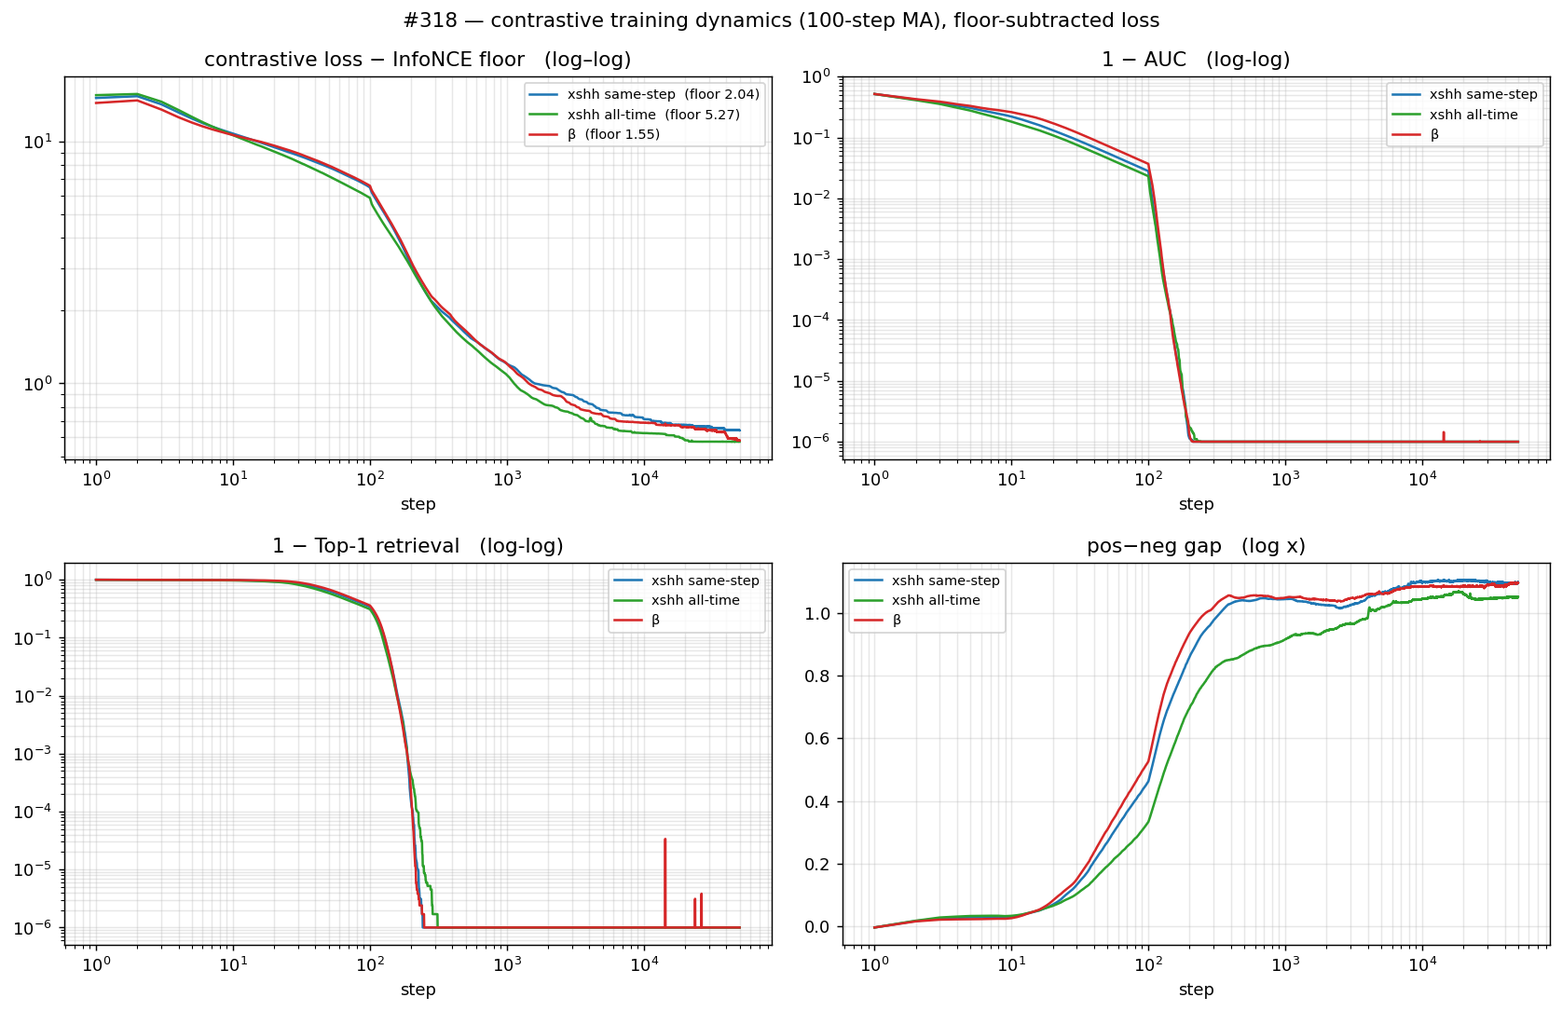
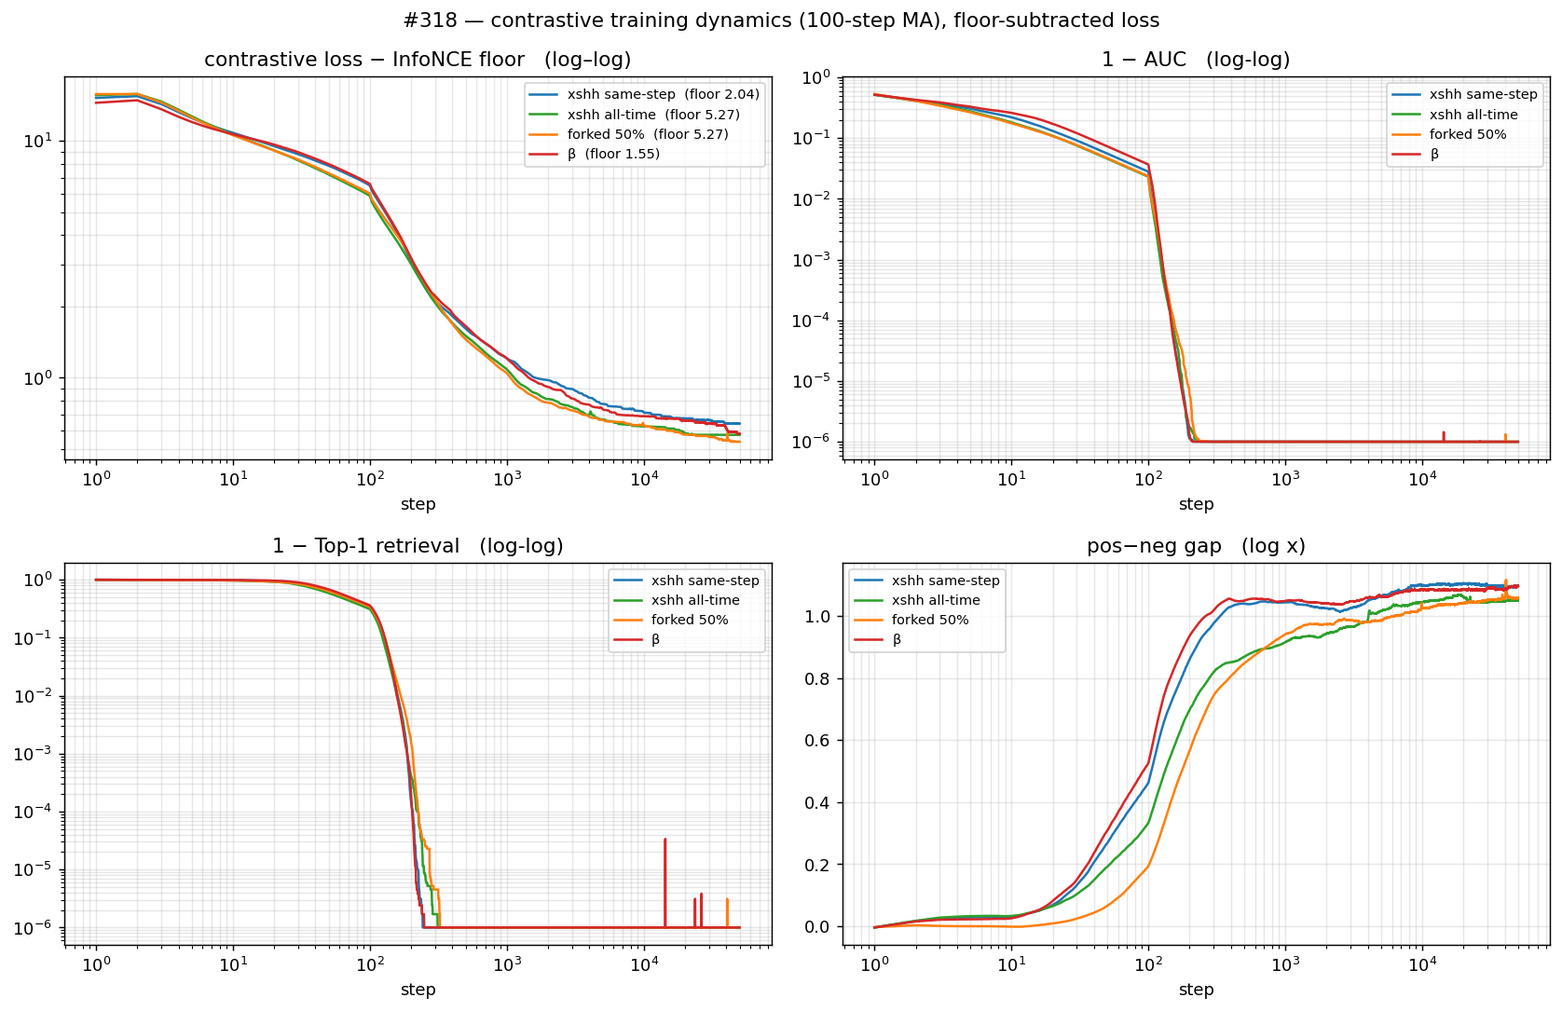
docs(#318): forked is a first-class data-side arm (both 50% + 2/batch)
Elevate forked from a footnote to a co-equal arm alongside the loss-side
same-step/all-time arms — in the headline table, gm_summary, perdomain, and
training_curves (50% shown with its data; 2/batch auto-appears when it lands).
Reframe verdict as loss-side (hurts) vs data-side (head-dependent, best-of-6L
1.4065, confounded). Review fixes: all-time step cost ~2.2× (measured 6.4→2.9
sps), not 2.5×; drop the mistake-narrative framing of the forked re-run.

diff --git a/experiments/2026-05-23_xseries_hh/scripts/plots.py b/experiments/2026-05-23_xseries_hh/scripts/plots.py
@@ -47,8 +47,11 @@ V11C = "/home/jupyter/contrastive-forecasting/experiments/2026-05-11_exp_encoder
 XSHH_CSV = f"{OUT}/runs/bb_xshh_50k_losses.csv"
 ALLT_CSV = f"{OUT}/runs/bb_xshh_allt_50k_losses.csv"
 BETA_CSV = f"{BETA_DIR}/runs/bb_beta_50k_losses.csv"
+FORK_CSV  = f"{OUT}/runs/bb_xshh_allt_forked_50k_losses.csv"    # forked, 50% synth (mis-specified mix)
+FORK2_CSV = f"{OUT}/runs/bb_xshh_allt_forked2_50k_losses.csv"   # forked, 2 samples/batch (corrected)
 
 C_XSHH, C_ALLT, C_BETA, C_V11C = "#1f77b4", "#2ca02c", "#d62728", "#9467bd"
+C_FORK, C_FORK2 = "#ff7f0e", "#8c564b"   # forked-50% / forked-2-per-batch (data-side denial)
 
 
 def agg_gm(sum_txt):
@@ -101,24 +104,23 @@ def gm(xs):
 # ---------------------------------------------------------------- summary bars
 def plot_gm_summary():
     # label -> summary.txt. β 2L is the #309 backbone-of-record eval.
+    fk = lambda tag, h, s: f"{RES}/gift_eval_{s}_{tag}_{h}/summary.txt"
     cells = [
-        ("xshh same-step · 2L", f"{RES}/gift_eval_full_xshh_50k_2L/summary.txt",
-         f"{RES}/gift_eval_triage_xshh_50k_2L/summary.txt", C_XSHH),
-        ("xshh same-step · 6L", f"{RES}/gift_eval_full_xshh_50k_6L/summary.txt",
-         f"{RES}/gift_eval_triage_xshh_50k_6L/summary.txt", C_XSHH),
-        ("xshh all-time · 2L", f"{RES}/gift_eval_full_xshh_allt_50k_2L/summary.txt",
-         f"{RES}/gift_eval_triage_xshh_allt_50k_2L/summary.txt", C_ALLT),
-        ("xshh all-time · 6L", f"{RES}/gift_eval_full_xshh_allt_50k_6L/summary.txt",
-         f"{RES}/gift_eval_triage_xshh_allt_50k_6L/summary.txt", C_ALLT),
+        ("xshh same-step · 2L", fk("xshh_50k", "2L", "full"), fk("xshh_50k", "2L", "triage"), C_XSHH),
+        ("xshh same-step · 6L", fk("xshh_50k", "6L", "full"), fk("xshh_50k", "6L", "triage"), C_XSHH),
+        ("xshh all-time · 2L", fk("xshh_allt_50k", "2L", "full"), fk("xshh_allt_50k", "2L", "triage"), C_ALLT),
+        ("xshh all-time · 6L", fk("xshh_allt_50k", "6L", "full"), fk("xshh_allt_50k", "6L", "triage"), C_ALLT),
+        ("forked 50% · 2L", fk("xshh_allt_forked_50k", "2L", "full"), fk("xshh_allt_forked_50k", "2L", "triage"), C_FORK),
+        ("forked 50% · 6L", fk("xshh_allt_forked_50k", "6L", "full"), fk("xshh_allt_forked_50k", "6L", "triage"), C_FORK),
+        ("forked 2/batch · 2L", fk("xshh_allt_forked2_50k", "2L", "full"), fk("xshh_allt_forked2_50k", "2L", "triage"), C_FORK2),
+        ("forked 2/batch · 6L", fk("xshh_allt_forked2_50k", "6L", "full"), fk("xshh_allt_forked2_50k", "6L", "triage"), C_FORK2),
         ("β · 2L", f"{BETA_DIR}/results/gift_eval_full_bb_beta_50k/summary.txt",
          f"{BETA_DIR}/results/gift_eval_triage_bb_beta_50k/summary.txt", C_BETA),
-        ("β · 6L", f"{RES}/gift_eval_full_beta_50k_6L/summary.txt",
-         f"{RES}/gift_eval_triage_beta_50k_6L/summary.txt", C_BETA),
+        ("β · 6L", fk("beta_50k", "6L", "full"), fk("beta_50k", "6L", "triage"), C_BETA),
     ]
-    rows = []
-    for lab, fs, ts, c in cells:
-        rows.append((lab, agg_gm(fs), agg_gm(ts), c))
-    if not any(r[1] or r[2] for r in rows):
+    rows = [(lab, agg_gm(fs), agg_gm(ts), c) for lab, fs, ts, c in cells]
+    rows = [r for r in rows if r[1] or r[2]]   # drop arms with no data yet (e.g. forked 2/batch pre-landing)
+    if not rows:
         print("gm_summary: no data yet — skip")
         return
     v = agg_gm(f"{V11C}/summary.txt") or 1.292
@@ -142,7 +144,7 @@ def plot_gm_summary():
             ax.axvline(v, color=C_V11C, ls="--", lw=1.4, label=f"v11c = {v:.3f}")
         ax.axvline(1.0, color="k", ls=":", lw=1.0, alpha=0.5)
         ax.legend(fontsize=8, loc="lower right")
-    fig.suptitle("#318 — frozen-backbone GM-Relative MASE: cross-series same-step h↔h vs β", fontsize=12)
+    fig.suptitle("#318 — frozen-backbone GM-Relative MASE: shortcut-denial arms (loss-side h↔h · data-side forked) vs β", fontsize=12)
     fig.tight_layout()
     fig.savefig(f"{PLOTS}/gm_summary.png", dpi=130, bbox_inches="tight")
     print("gm_summary.png written")
@@ -210,8 +212,10 @@ def plot_training_curves():
     # (label, curve, colour, floor-key)
     arms = [("xshh same-step", _load_curve(XSHH_CSV), C_XSHH, "xshh"),
             ("xshh all-time",  _load_curve(ALLT_CSV), C_ALLT, "allt"),
+            ("forked 50%",     _load_curve(FORK_CSV), C_FORK, "allt"),
+            ("forked 2/batch", _load_curve(FORK2_CSV), C_FORK2, "allt"),
             ("β",              _load_curve(BETA_CSV), C_BETA, "beta")]
-    arms = [a for a in arms if a[1]]
+    arms = [a for a in arms if a[1]]   # forked 2/batch drops out until its CSV lands
     if not arms:
         print("training_curves: no data yet — skip")
         return
@@ -262,6 +266,8 @@ def plot_perdomain():
                or config_domain(f"{RES}/gift_eval_full_xshh_50k_2L/all_results.csv"))
     srcs = [("xshh same-step 2L", f"{RES}/gift_eval_full_xshh_50k_2L/summary.txt", C_XSHH),
             ("xshh all-time 2L", f"{RES}/gift_eval_full_xshh_allt_50k_2L/summary.txt", C_ALLT),
+            ("forked 50% 2L", f"{RES}/gift_eval_full_xshh_allt_forked_50k_2L/summary.txt", C_FORK),
+            ("forked 2/batch 2L", f"{RES}/gift_eval_full_xshh_allt_forked2_50k_2L/summary.txt", C_FORK2),
             ("β 2L", f"{BETA_DIR}/results/gift_eval_full_bb_beta_50k/summary.txt", C_BETA),
             ("v11c", f"{V11C}/summary.txt", C_V11C)]
     series = []
@@ -285,7 +291,7 @@ def plot_perdomain():
     ax.axhline(1.0, color="k", ls=":", lw=1, alpha=0.6)
     ax.set_xticks(x + w*(len(series)-1)/2); ax.set_xticklabels(doms, rotation=20, ha="right", fontsize=9)
     ax.set_ylabel("per-domain GM-Relative MASE (lower=better)")
-    ax.set_title("#318 — per-domain transfer (full-97, 2L): cross-series same-step h↔h vs β")
+    ax.set_title("#318 — per-domain transfer (full-97, 2L): shortcut-denial arms vs β")
     ax.legend(fontsize=9); fig.tight_layout()
     fig.savefig(f"{PLOTS}/perdomain.png", dpi=130, bbox_inches="tight")
     print("perdomain.png written")

diff --git a/experiments/2026-05-23_xseries_hh/RESULTS.md b/experiments/2026-05-23_xseries_hh/RESULTS.md
@@ -1,34 +1,36 @@
-# #318 — Deny the positional shortcut: cross-series, same-step h↔h negatives
+# #318 — Deny the positional shortcut: loss-side vs data-side
 
-**Verdict — the hypothesis is falsified.** Adding a cross-series encoder-repulsion
-term to deny a "positional shortcut" **hurts** GIFT-Eval transfer, and the more
-precisely it targets the shortcut, the more it hurts. The **same-step** arm is
-**+22%** worse than β (full-97 1.619 vs 1.327); the broader **all-time** arm
-**+6.6%** (1.414). A 6-layer evaluation head rescues neither, so the regression
-lives in the **backbone**, not readout capacity. What different series share at a
-step is, on balance, **forecastably useful** — not a content-free code worth
-destroying.
+**Verdict.** There are two ways to forbid the shortcut, and they behave oppositely.
+Through the **loss** (cross-series h↔h repulsion) it **hurts** — same-step +22%,
+all-time +6.6% vs β at the 2L head. Through the **data** (forked continuations:
+the same past, two divergent futures) it is sharply **head-dependent**: the worst
+arm with a small 2L head (1.637), but **the best backbone here with a 6L head**
+(full-97 **1.4065**, beating β·6L 1.449 and all-time·6L 1.475). That forked number
+is measured at a 50% synthetic mix, which entangles a data-distribution shift with
+the fork itself; a minimal-injection re-run (one forked pair per 256-row batch) to
+isolate the fork is in flight. Nothing yet beats β·2L (1.3272) overall.
 
 ![full-97 GM summary](plots/gm_summary.png)
 *Full GIFT-Eval (97 configs), GM-Relative MASE (lower better; 1.0 = seasonal
-naive). Both cross-series h↔h arms sit above β and the v11c target at both head
-sizes; same-step is worst and a 6L head does not move it.*
+naive). Loss-side arms (blue/green) sit above β at both heads. The data-side
+forked arm (orange) swings from worst (2L) to best-of-6L (1.4065) — a head
+dependence no other arm shows. The corrected 2/batch forked arm (brown) appears
+here once it lands.*
 
 ## Question
 
 The backbone makes a forecast `f_t` resemble the next encoder state `h_{t+1}` and
 differ from negatives. The strongest recipe, **β**, adds a within-series
-**cross-time** negative — push `h_t` away from `h_l` for every other step `l`.
-That term has an escape hatch: a model can satisfy "`h_t` ≠ `h_l`" by stamping
-each step with a **positional fingerprint** that is *identical across all series*
-— distinctness at zero cost in forecastable content. Two standing observations on
-this line fit that story: bigger eval heads don't help, and more contrastive
-training doesn't improve transfer.
+**cross-time** negative — push `h_t` from `h_l` for every other step `l`. That
+term has an escape hatch: stamp each step with a **positional fingerprint**
+*identical across all series*, and "`h_t` ≠ `h_l`" is satisfied at zero cost in
+forecastable content. Two standing observations fit it: bigger eval heads don't
+help, and more contrastive training doesn't improve transfer.
 
-**This card asks:** if we directly forbid the shortcut — repel, at every step,
-what *different* series share there, `cos(h_{b,l}, h_{b',l})` (b ≠ b') — does the
-backbone move distinctness onto series-specific (forecastable) content and
-transfer better than β?
+**Can we forbid the shortcut, and does it help?** We test denial through two
+channels: the **loss** (repel what different series share at a step) and the
+**data** (feed pairs whose identical past has divergent futures, so position
+*cannot* encode the future).
 
 ## Result
 
@@ -39,123 +41,145 @@ quantile q-head, to separate backbone quality from readout capacity.
 |---|:--:|---:|---:|
 | **β** (#309) | 2L | **1.3272** | 1.4836 |
 | | 6L | 1.4489 | 1.5271 |
-| **all-time** `xshh_allt` | 2L | 1.4143 | 1.6126 |
-| | 6L | 1.4748 | 1.7028 |
-| **same-step** `xshh` | 2L | 1.6194 | 1.9816 |
+| loss-side · **same-step** `xshh` | 2L | 1.6194 | 1.9816 |
 | | 6L | 1.6181 | 1.8762 |
+| loss-side · **all-time** `xshh_allt` | 2L | 1.4143 | 1.6126 |
+| | 6L | 1.4748 | 1.7028 |
+| data-side · **forked, 50% mix** | 2L | 1.6366 | 1.8824 |
+| | 6L | **1.4065** | 1.5339 |
+| data-side · **forked, 2/batch** | 2L · 6L | *in flight* | *in flight* |
 | v11c (reference) | 2L | 1.292 | — |
 
 *GM-Relative MASE = geometric mean over GIFT-Eval configs of (model MASE ÷
-seasonal-naive MASE); 1.0 = seasonal-naive parity, lower is better. **full-97** =
-all 97 configs (trusted); **triage-11** = an 11-config fast subset (noisier).*
+seasonal-naive MASE); 1.0 = seasonal-naive parity, lower better. full-97 = all 97
+configs (trusted); triage-11 = an 11-config fast subset (noisier).*
 
-1. **Both arms lose to β** — same-step +22%, all-time +6.6% (2L head). Adding
-   *any* cross-series h↔h repulsion worsens transfer.
-2. **Targeted hurts *more* than broad** — the reverse of the prediction. The
-   same-step edge (the precise positional-code denier) is the **worst** arm;
-   the broad all-time edge, which also repels across *different* steps, is
-   *less* damaging.
-3. **A bigger head does not rescue it** — same-step is flat 2L→6L
-   (1.619 → 1.618), all-time worsens (1.414 → 1.475), and even β degrades at 6L.
-   The regression is in the **backbone representation**, directly confirming the
-   "bigger heads don't help" observation this card set out to probe.
+**Loss-side denial hurts — and targeting it tighter hurts more.** Adding *any*
+cross-series h↔h repulsion worsens transfer: same-step +22%, all-time +6.6% (2L).
+The **same-step** edge — the precise positional-code denier the issue proposed —
+is the **worst** arm; the broad **all-time** edge, which also repels across
+*different* steps, is *less* damaging. A 6L head rescues neither (same-step flat
+1.619→1.618, all-time worse 1.414→1.475; even β degrades, 1.327→1.449), so the
+regression lives in the **backbone**, confirming the "bigger heads don't help"
+observation this card probed. What different series share at a step is, on
+balance, **forecastably useful** — not a code worth destroying.
 
-### Per-domain — the damage is broad, not seasonal
+**Data-side denial is the standout — but head-dependent and confounded.** The
+forked backbone is the *worst* arm under a 2L head (1.637) yet the **best of any
+backbone here under a 6L head** (1.4065 — below β·6L 1.449 and all-time·6L 1.475).
+This 0.23 swing between heads is far larger than any other arm's (β 0.12,
+all-time 0.06): the forked representation encodes something a small head cannot
+read but a deeper one can. **Caveat — do not yet credit the fork:** this arm
+trains on **50% synthetic ARIMA** while β/all-time use 100% real data, so the
+data-distribution shift and the fork structure are entangled. The corrected
+**2/batch** arm injects a *single* forked pair per 256-row batch (the rest real),
+isolating the fork from the shift; it will say whether the 6L result survives.
+
+### Per-domain (2L head, full-97)
 
 ![per-domain](plots/perdomain.png)
-*Per-domain GM-Relative MASE (2L head, full-97). same-step is worse than β on
-**all 7 domains**.*
+*The loss-side same-step arm is worse than β on all 7 domains. forked-50% is
+mixed — it *beats* β on Econ/Fin and Healthcare but loses elsewhere.*
 
-| domain | β | same-step | all-time |
-|---|---:|---:|---:|
-| Econ/Fin | 2.018 | 2.734 | 3.514 |
-| Web/CloudOps | 1.437 | 1.859 | 1.472 |
-| Energy | 1.573 | 1.880 | 1.624 |
-| Nature | 0.932 | 1.201 | 1.010 |
-| Transport | 1.100 | 1.281 | 1.065 |
-| Sales | 0.799 | 0.895 | 0.854 |
-| Healthcare | 1.498 | 1.519 | 1.604 |
+| domain | β | same-step | all-time | forked 50% |
+|---|---:|---:|---:|---:|
+| Econ/Fin | 2.018 | 2.734 | 3.514 | **1.937** |
+| Energy | 1.573 | 1.880 | 1.624 | 1.968 |
+| Healthcare | 1.498 | 1.519 | 1.604 | **1.376** |
+| Nature | 0.932 | 1.201 | 1.010 | 1.175 |
+| Sales | 0.799 | 0.895 | 0.854 | 0.948 |
+| Transport | 1.100 | 1.281 | 1.065 | 1.390 |
+| Web/CloudOps | 1.437 | 1.859 | 1.472 | 1.955 |
 
-The issue anticipated collateral damage to *same-frequency seasonal phase*. There
-is no seasonal signature: Energy is hurt *less* than the bursty Web/CloudOps and
-Econ/Fin, so same-step's damage is **general**. all-time's gentler aggregate is
-driven by the high-variance Web/CloudOps and Transport configs (1.86 → 1.47,
-1.28 → 1.07), not a uniform gain — it is in fact *worse* than same-step on
-Econ/Fin and Healthcare.
+The issue anticipated collateral damage to *same-frequency seasonal phase*; there
+is no such signature — Energy is hurt *less* than the bursty Web/CloudOps and
+Econ/Fin, so the loss-side damage is **general**. forked-50% (even with its poor
+2L aggregate) is the only arm that *improves* on β anywhere — exactly on the two
+domains (Econ/Fin, Healthcare) the loss-side arms hurt most.
 
-### Training dynamics — the contrastive task is learned; only transfer differs
+### Training dynamics
 
 ![training curves](plots/training_curves.png)
 *Loss minus each arm's InfoNCE floor (log–log). Floors differ — β 1.55 /
 same-step 2.04 / all-time 5.27 — because the floor `log(1 + N·e^(−1/τ))` grows
-with the negative-pool size N, which spans 52× across arms, so raw losses are not
-comparable. Floor-subtracted, all three converge to a similar small excess
-(β +0.58, same-step +0.64, all-time +0.57); retrieval AUC / Top-1 saturate within
-a few hundred steps.*
+with the negative-pool size N (52× across arms); forked uses the all-time loss, so
+its floor is 5.27 too. Floor-subtracted, every arm converges to a similar small
+excess (≈ +0.54 to +0.64); retrieval AUC/Top-1 saturate within a few hundred
+steps.*
 
-Once the floor is accounted for, the contrastive objective converges cleanly and
-near-identically for all three arms — yet transfer diverges by up to 22%. The
-extra cross-series structure **is** learned; it is simply the **wrong** structure.
-The "good contrastive metrics, indifferent transfer" decoupling is not shrunk by
-this intervention — if anything it widens.
+The contrastive objective converges cleanly and near-identically once the floor
+is accounted for, yet transfer spans 22%. The extra structure **is** learned; for
+the loss-side arms it is the **wrong** structure. The "good contrastive metrics,
+indifferent transfer" decoupling is not shrunk here.
 
 ## Protocol
 
-**Backbones.** same-step and all-time, each byte-identical to the #309 **β** arm
-except `--loss-shape`: GRU patch-encoder → 6-layer causal encoder → 1-layer
-forecaster (d = 128 bottleneck), AdamW β2 = 0.98, τ = 0.10, dropkey 0.70 shared,
-fp16 body / fp32 residual + patch-embedding, EWMA RevNorm span 128, seed
-20260520, 50k steps, batch 256, normalized-InfoNCE (`--pos-in-denominator`). One
-RTX 4090 each. Loss shapes `cosine_similarity_batch_full_hh_negs_{xshh,xshh_allt}`
-(`src/loss.py`), each pinned to an independent fp64 reference in
-`tests/test_loss.py`.
+**Backbones.** All four arms are byte-identical to the #309 **β** arm except the
+denial edit: GRU patch-encoder → 6-layer causal encoder → 1-layer forecaster
+(d = 128 bottleneck), AdamW β2 = 0.98, τ = 0.10, dropkey 0.70 shared, fp16 body /
+fp32 residual + patch-embedding, EWMA RevNorm span 128, seed 20260520, 50k steps,
+batch 256, normalized-InfoNCE (`--pos-in-denominator`). One RTX 4090 each.
+Loss-side arms change only `--loss-shape`
+(`cosine_similarity_batch_full_hh_negs_{xshh,xshh_allt}`, pinned to fp64
+references in `tests/test_loss.py`); data-side arms use the all-time loss + a
+forked-ARIMA data mix (`src/synthetic_forked_arma.py`). The all-time loss costs
+**~2.2×** the same-step step time (6.4 → 2.9 sps).
 
 **Evaluation.** Each frozen backbone → fresh 30k quantile q-head (transformer,
-causal, forecast-len 16), trained at both 2 and 6 layers; GIFT-Eval strategy B4.
-Byte-identical to #309/#315, so the numbers compare directly. References:
-β full-97 1.3272; v11c (encoder-forecaster champion) 1.292; seasonal naive 1.0.
+causal, forecast-len 16) at 2 and 6 layers; GIFT-Eval strategy B4. Byte-identical
+to #309/#315 so the numbers compare directly. References: β full-97 1.3272; v11c
+(encoder-forecaster champion) 1.292; seasonal naive 1.0.
 
-## The two arms, exactly
+## The arms, exactly
 
-Both add **one** cross-series h↔h negative on top of β and both **remove** β's
-adjacent `cos(h_t, h_{t+1})` (at single-channel training it is byte-for-byte the
-`l = t+1` slice already inside β's within-series all-time term, so dropping it
-de-duplicates). They differ only in the cross-series edge:
+All four keep β's within-series all-time term `cos(h_t, h_l)` ∀l (the
+"different-`l`" comparisons) and remove β's adjacent `cos(h_t, h_{t+1})` (at C = 1
+it duplicates the `l = t+1` slice already inside that term). They differ in *how*
+they deny the shortcut:
 
-- **same-step** — `cos(h_{b,t}, h_{b',t})`, b ≠ b': repel only what
-  *same-position* states of different series share — the shortcut and nothing
-  else. Negative pool **1.79×** β.
-- **all-time** — `cos(h_{b,t}, h_{b',l})`, b ≠ b', **∀ l**: the strict superset
-  (same-step is its `l = t` slice); also repels different-position cross-series
-  states. Pool **52×** β; ~2.5× the step time. Full multiplicities → [annex](#annex--exact-negative-set).
+- **Loss-side**, one added cross-series h↔h negative:
+  - **same-step** `cos(h_{b,t}, h_{b',t})`, b ≠ b' — repel only same-position
+    cross-series states (the shortcut and nothing else). Pool 1.79× β.
+  - **all-time** `cos(h_{b,t}, h_{b',l})`, b ≠ b', ∀l — the superset (same-step is
+    its `l = t` slice); also repels different-position states. Pool 52× β.
+- **Data-side**, the all-time loss + forked-ARIMA pairs: each pair shares an exact
+  prefix `x_{1:l}` then diverges under perturbed coefficients, so the same past
+  maps to two plausible futures. Injection fraction is the design axis: **50%** of
+  the batch (confounds a synthetic-data shift with the fork) vs **2 samples** (one
+  pair) per 256-row batch (isolates the fork; the rest stays real).
 
-## Follow-ups (in flight)
+Full per-anchor multiplicities → [annex](#annex--exact-negative-set).
 
-- **6-layer forecaster** (1L → 6L *forecaster*, both arms): does a deeper
-  predictor change the picture? — training/eval running; results append here.
-- **Forked-continuation ARIMA** (data-side denial): inject **one** forked-ARIMA
-  pair (2 samples) per 256-row batch — a pair sharing an exact prefix then
-  diverging, so the same past maps to two plausible futures — while the other
-  254 rows stay real, so transfer is **not** confounded by a synthetic mix.
-  *(An earlier run mistakenly used a 50% synthetic mix; superseded by this
-  minimal-injection re-run. Backbone re-training; 2L + 6L eval to follow.)*
+## What we learned
+
+1. **Loss-side denial of the shortcut fails.** Both arms lose to β; the *targeted*
+   same-step edge (+22%) is worse than the *broad* all-time one (+6.6%) — the
+   reverse of the hypothesis. The shared same-step structure is forecastably
+   useful, not a disposable positional code.
+2. **A bigger head does not rescue the loss-side arms** — the regression is in the
+   backbone representation, confirming the standing "bigger heads don't help"
+   observation.
+3. **Data-side denial is the one promising lead.** The forked backbone is
+   best-of-6L (1.4065) with a striking 2L→6L swing — but at 50% synthetic mix it
+   is confounded. The 2/batch isolation re-run is the deciding experiment;
+   per-domain, forked is also the only arm that beats β anywhere.
 
 ## Caveats
 
 Single seed per cell (prior work on this line: seed spread ≈ ±0.02, cf. #307; the
-+6.6% / +22% margins are far outside that, though the all-time-vs-β ordering
-deserves a second seed). A step-resolved GM-vs-step sweep was not run, so the
-decoupling statement rests on the training curves plus the head-size result, not
-a per-step transfer curve.
+loss-side margins are far outside that, but the all-time-vs-β ordering and the
+forked-6L result each deserve a second seed). The forked-50% number is confounded
+by its synthetic-data fraction — the 2/batch arm is required to attribute anything
+to the fork. A step-resolved GM-vs-step sweep was not run.
 
 ## Annex — exact negative set
 
-All three arms share **one positive** (the InfoNCE numerator) `cos(h_{t+1}, f_t)`.
-Multiplicities are **per anchor at C = 1** (the training config); the InfoNCE
-denominator is then pooled over the batch, so the realised pool is `N = B · Σ`.
-Counts verified by `src.loss._effective_negative_count`.
+All arms share **one positive** `cos(h_{t+1}, f_t)`. Multiplicities are per anchor
+at C = 1; the denominator is pooled over the batch, so the realised pool is
+`N = B · Σ`. Counts verified by `src.loss._effective_negative_count`. (Data-side
+arms share the all-time column — the fork is in the *data*, not the loss.)
 
-| negative family | repels | β | same-step | all-time |
+| negative family | repels | β | same-step | all-time / forked |
 |---|---|:--:|:--:|:--:|
 | `xy` — adjacent h↔h | `cos(h_t, h_{t+1})` | 1 | — | — |
 | `zy` — forecaster f↔f | `cos(f_{t+1}, f_t)` | 1 | 1 | 1 |
@@ -168,4 +192,4 @@ Counts verified by `src.loss._effective_negative_count`.
 
 T = 64 is the **latent** length: the HF streamer crops windows to T_RAW = 1024
 regardless of `--t-raw`, and 1024 ÷ patch-width(16) = 64 (verified by a model
-forward). This holds for β/v11c too, so all numbers are on the same footing.
+forward). Holds for β/v11c too, so all numbers are on the same footing.
